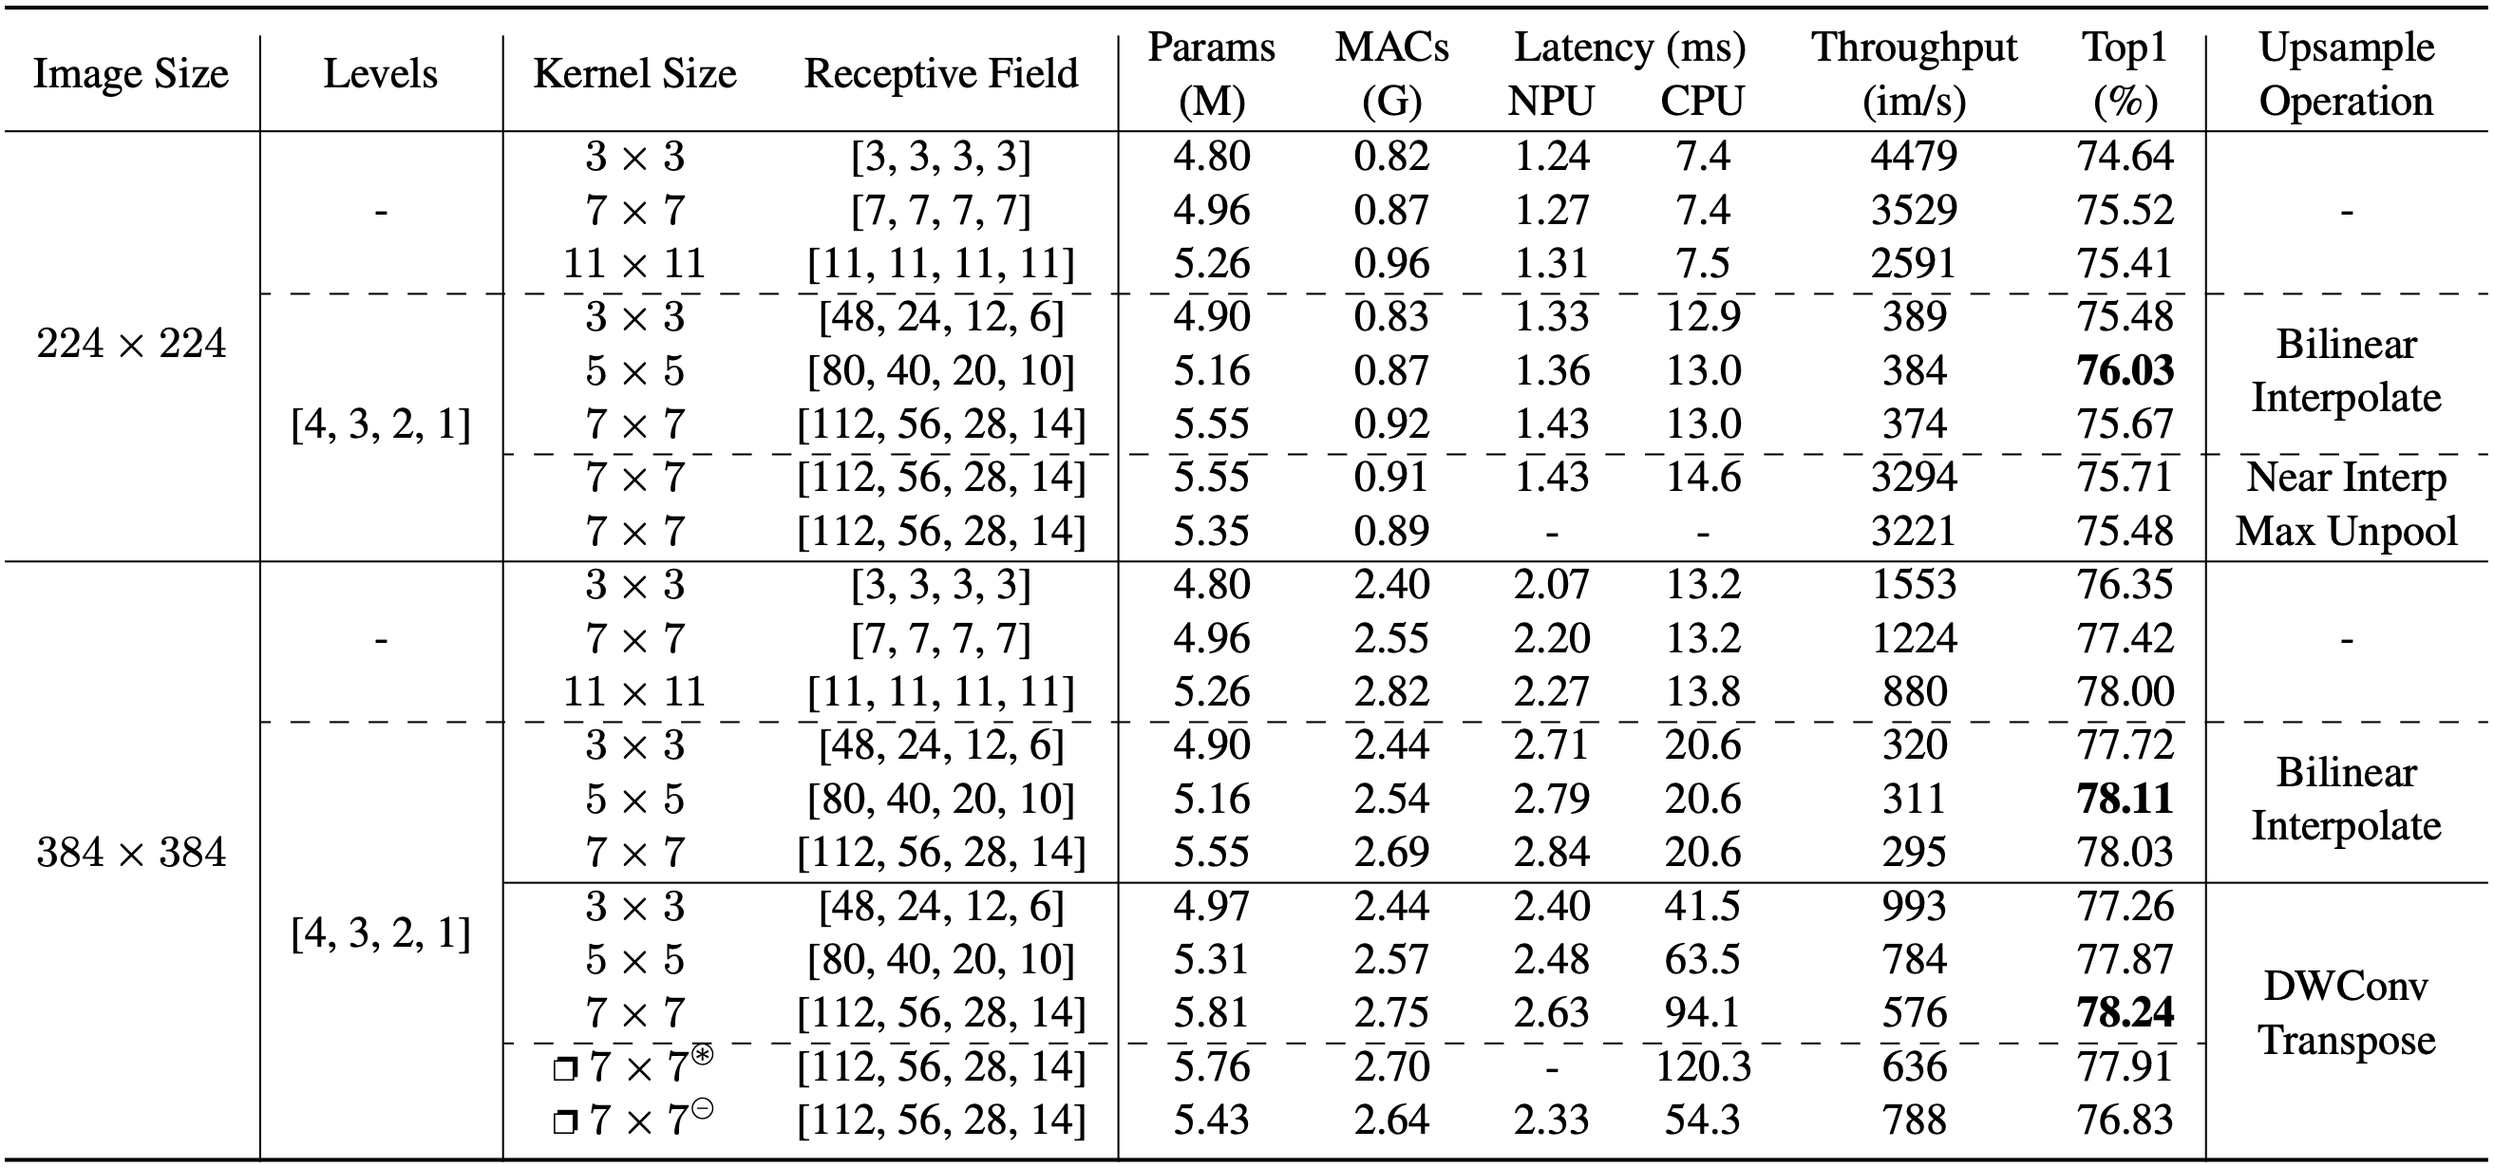
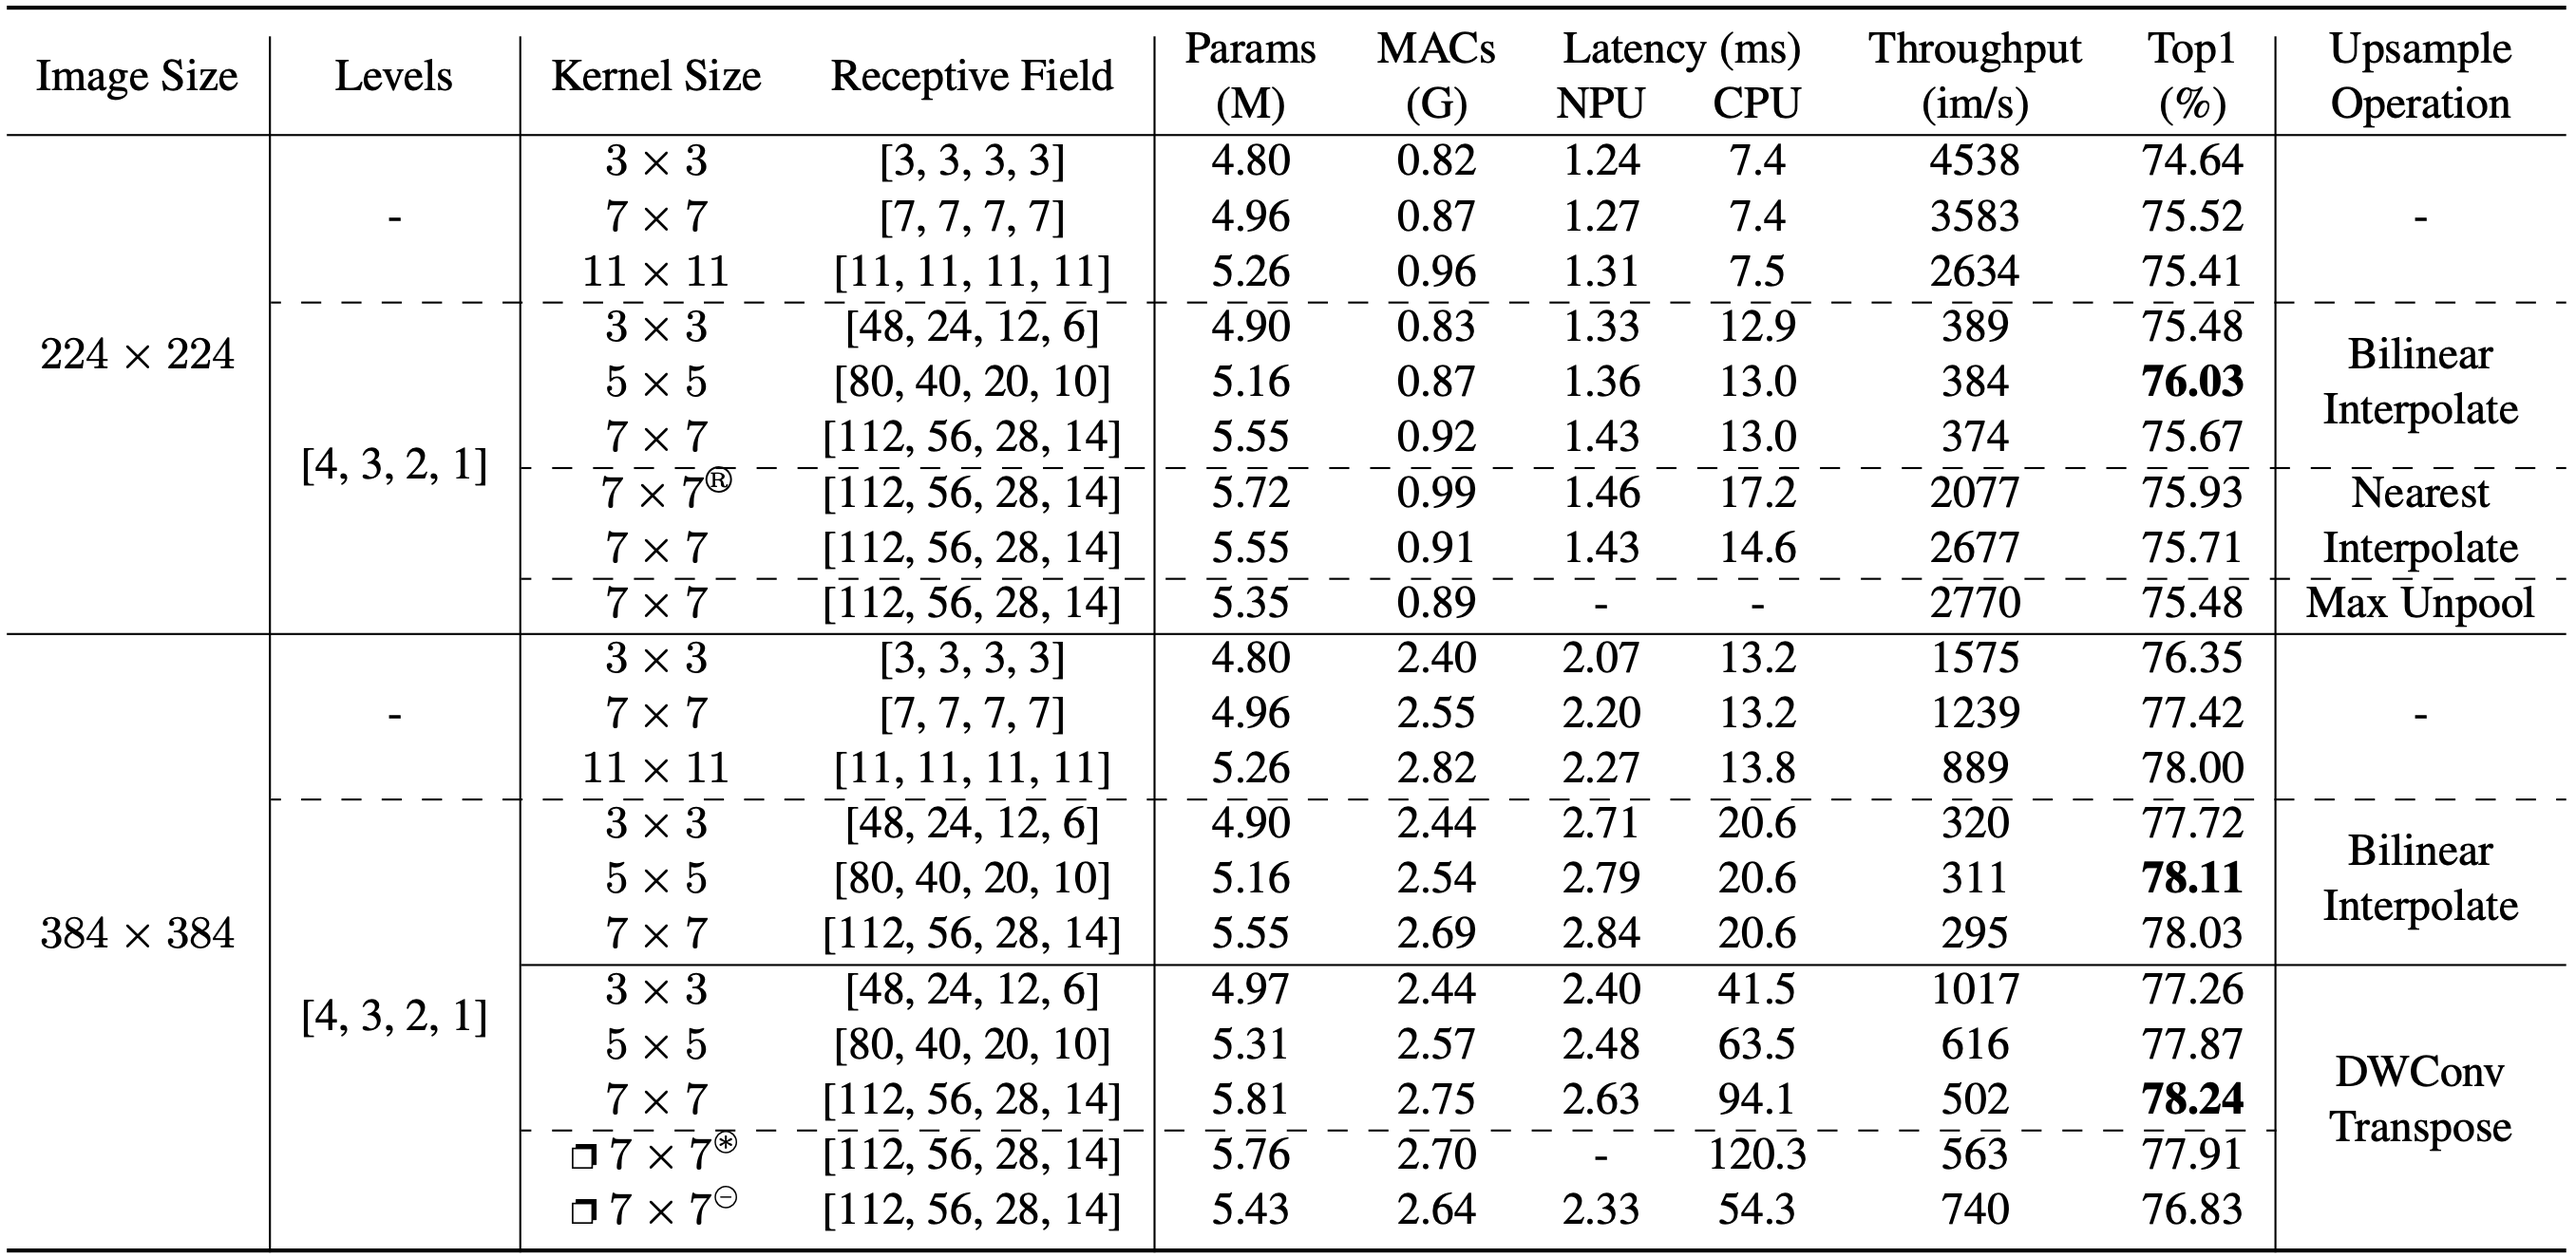
added upsampling recurrent aggregation logs, updated more accurate throughput results.

diff --git a/README.md b/README.md
@@ -429,6 +429,7 @@ logs/ablation
 │   ├── <a style="text-decoration:none" href="./logs/ablation/224/recnext_m1_120e_224x224_rec_5x5_7603.txt">recnext_m1_120e_224x224_rec_5x5_7603.txt</a>
 │   ├── <a style="text-decoration:none" href="./logs/ablation/224/recnext_m1_120e_224x224_rec_7x7_7567.txt">recnext_m1_120e_224x224_rec_7x7_7567.txt</a>
 │   ├── <a style="text-decoration:none" href="./logs/ablation/224/recnext_m1_120e_224x224_rec_7x7_nearest_7571.txt">recnext_m1_120e_224x224_rec_7x7_nearest_7571.txt</a>
+│   ├── <a style="text-decoration:none" href="./logs/ablation/224/recnext_m1_120e_224x224_rec_7x7_nearest_ssm_7593.txt">recnext_m1_120e_224x224_rec_7x7_nearest_ssm_7593.txt</a>
 │   └── <a style="text-decoration:none" href="./logs/ablation/224/recnext_m1_120e_224x224_rec_7x7_unpool_7548.txt">recnext_m1_120e_224x224_rec_7x7_unpool_7548.txt</a>
 └── 384
     ├── <a style="text-decoration:none" href="./logs/ablation/384/recnext_m1_120e_384x384_3x3_7635.txt">recnext_m1_120e_384x384_3x3_7635.txt</a>
@@ -462,6 +463,7 @@ fd txt logs/ablation -x sh -c 'printf "%.2f %s\n" "$(jq -s "map(.test_acc1) | ma
 76.03 logs/ablation/224/recnext_m1_120e_224x224_rec_5x5_7603.txt
 75.67 logs/ablation/224/recnext_m1_120e_224x224_rec_7x7_7567.txt
 75.71 logs/ablation/224/recnext_m1_120e_224x224_rec_7x7_nearest_7571.txt
+75.93 logs/ablation/224/recnext_m1_120e_224x224_rec_7x7_nearest_ssm_7593.txt
 75.48 logs/ablation/224/recnext_m1_120e_224x224_rec_7x7_unpool_7548.txt
 76.35 logs/ablation/384/recnext_m1_120e_384x384_3x3_7635.txt
 77.42 logs/ablation/384/recnext_m1_120e_384x384_7x7_7742.txt
@@ -477,6 +479,46 @@ fd txt logs/ablation -x sh -c 'printf "%.2f %s\n" "$(jq -s "map(.test_acc1) | ma
 ```
 </details>
 
+</details>
+
+<details>
+  <summary>
+  <span style="font-size: larger; ">RecConv Recurrent Aggregation</span>
+  </summary>
+
+  ```python
+class RecConv2d(nn.Module):
+    def __init__(self, in_channels, kernel_size=5, bias=False, level=1, mode='nearest'):
+        super().__init__()
+        self.level = level
+        self.mode = mode
+        kwargs = {
+            'in_channels': in_channels,
+            'out_channels': in_channels,
+            'groups': in_channels,
+            'kernel_size': kernel_size,
+            'padding': kernel_size // 2,
+            'bias': bias
+        }
+        self.n = nn.Conv2d(stride=2, **kwargs)
+        self.a = nn.Conv2d(**kwargs)
+        self.b = nn.Conv2d(**kwargs) if level >1 else None
+        self.c = nn.Conv2d(**kwargs)
+        self.d = nn.Conv2d(**kwargs)
+
+    def forward(self, x):
+        # 1. Generate Multi-scale Features.
+        fs = [x]
+        for _ in range(self.level):
+            fs.append(self.n(fs[-1]))
+
+        # 2. Multi-scale Recurrent Aggregation.
+        h = None
+        for i, o in reversed(list(zip(fs[1:], fs[:-1]))):
+            h = self.a(h) + self.b(i) if h is not None else self.b(i)
+            h = nn.functional.interpolate(h, size=o.shape[2:], mode=self.mode)
+        return self.c(h) + self.d(x)
+  ```
 </details>
 
 ### RecConv Variants
